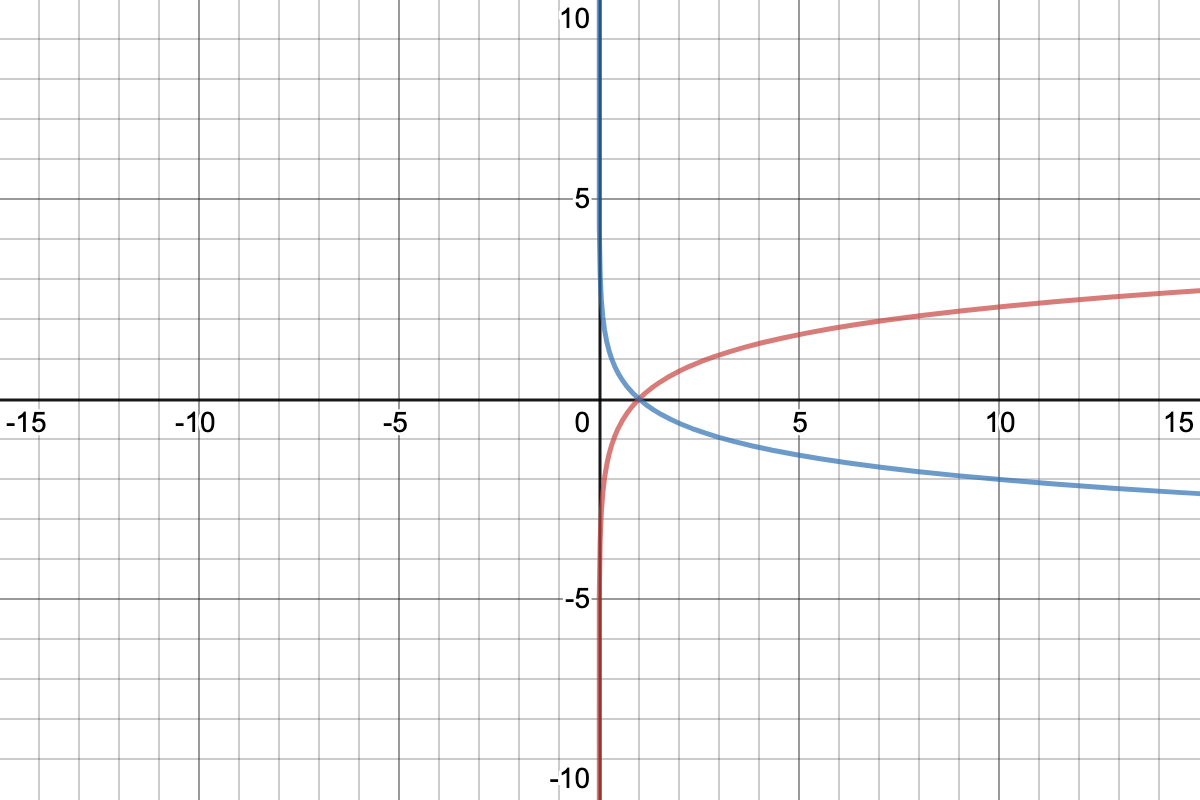
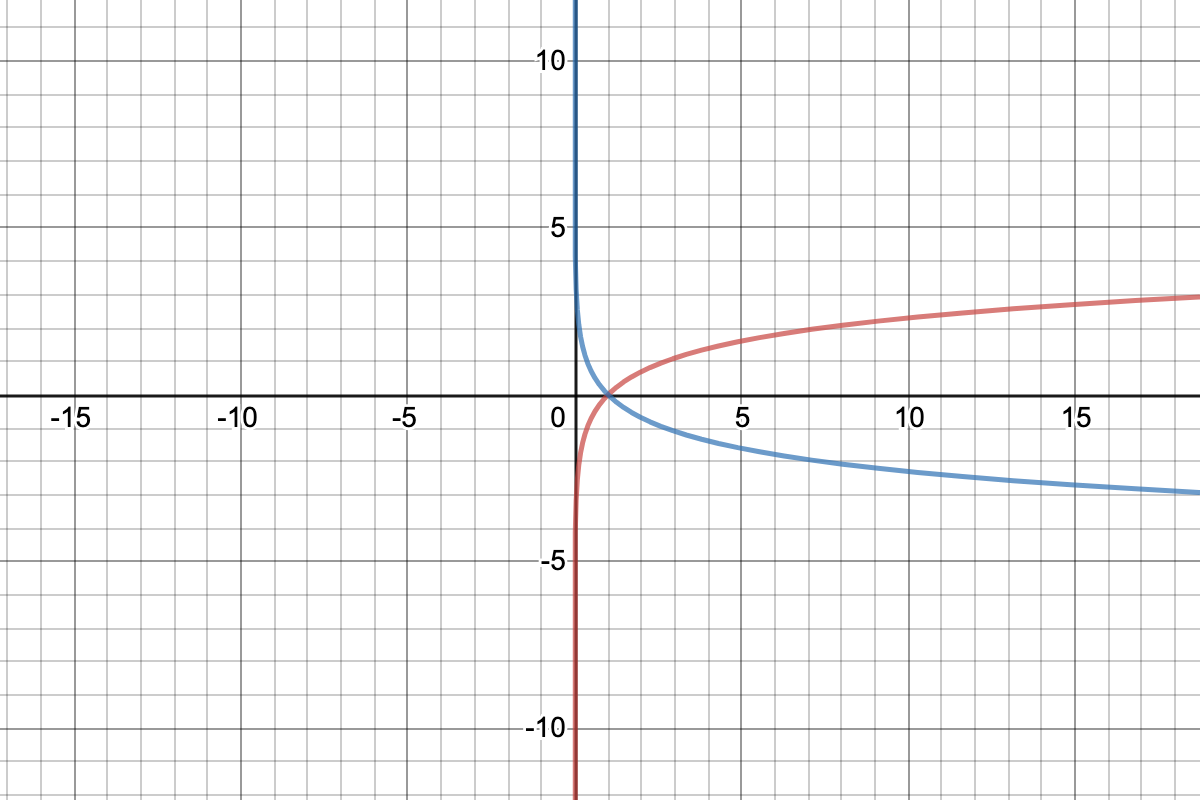
dev: 更新了指数函数的几何图形

Changed region(s): [[0.0, 0.0, 1.0, 1.0]]

diff --git a/初等函数/指数函数.md b/初等函数/指数函数.md
@@ -5,7 +5,7 @@ $$
 y=a^{x}\,\,\,\,\,\,\,\,(a>0,a\neq 1)
 $$
 
-#### 2.反函数
+* 反函数
 
 指数函数的反函数是对数函数
 $$
@@ -13,19 +13,9 @@ y=a^{x} \Rightarrow x={log_{a}}^{y}\Rightarrow y={log_{a}}^{x}
 $$
 
 
-#### 3.几何图形
+* 几何图形
 
-* ##### 1.a>1
-$$
-y=a^{x}\,\,\,\,\,\,\,\,(a>1)\,\,\,\,\,\,\,\,例:y=e^{x}
-$$
+  <font color=#3D70AE>**0<a<1**</font>&emsp;<font color=#B94D46>**a>1**</font>
 
 ![a>1](./pic_exponential/ex.png)
-
-* ##### 2. 0<a<1
-$$
-y=a^{x}\,\,\,\,\,\,\,\,(0<a<1)\,\,\,\,\,\,\,\,例:y=\frac{1}{e^{x}}
-$$
-
-![0<a<1](./pic_exponential/1withe.png)
 
